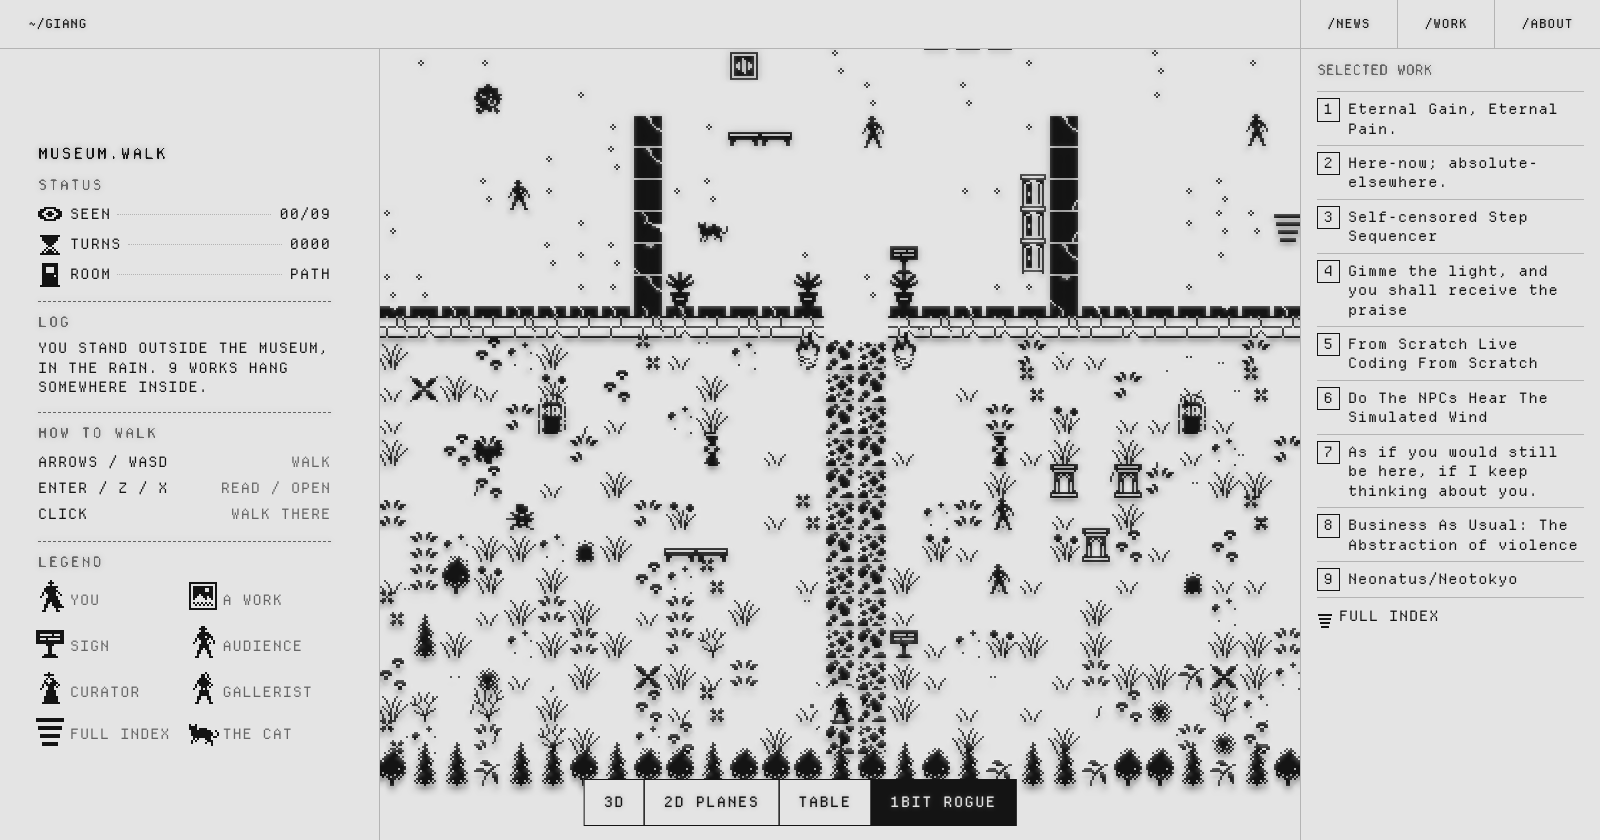
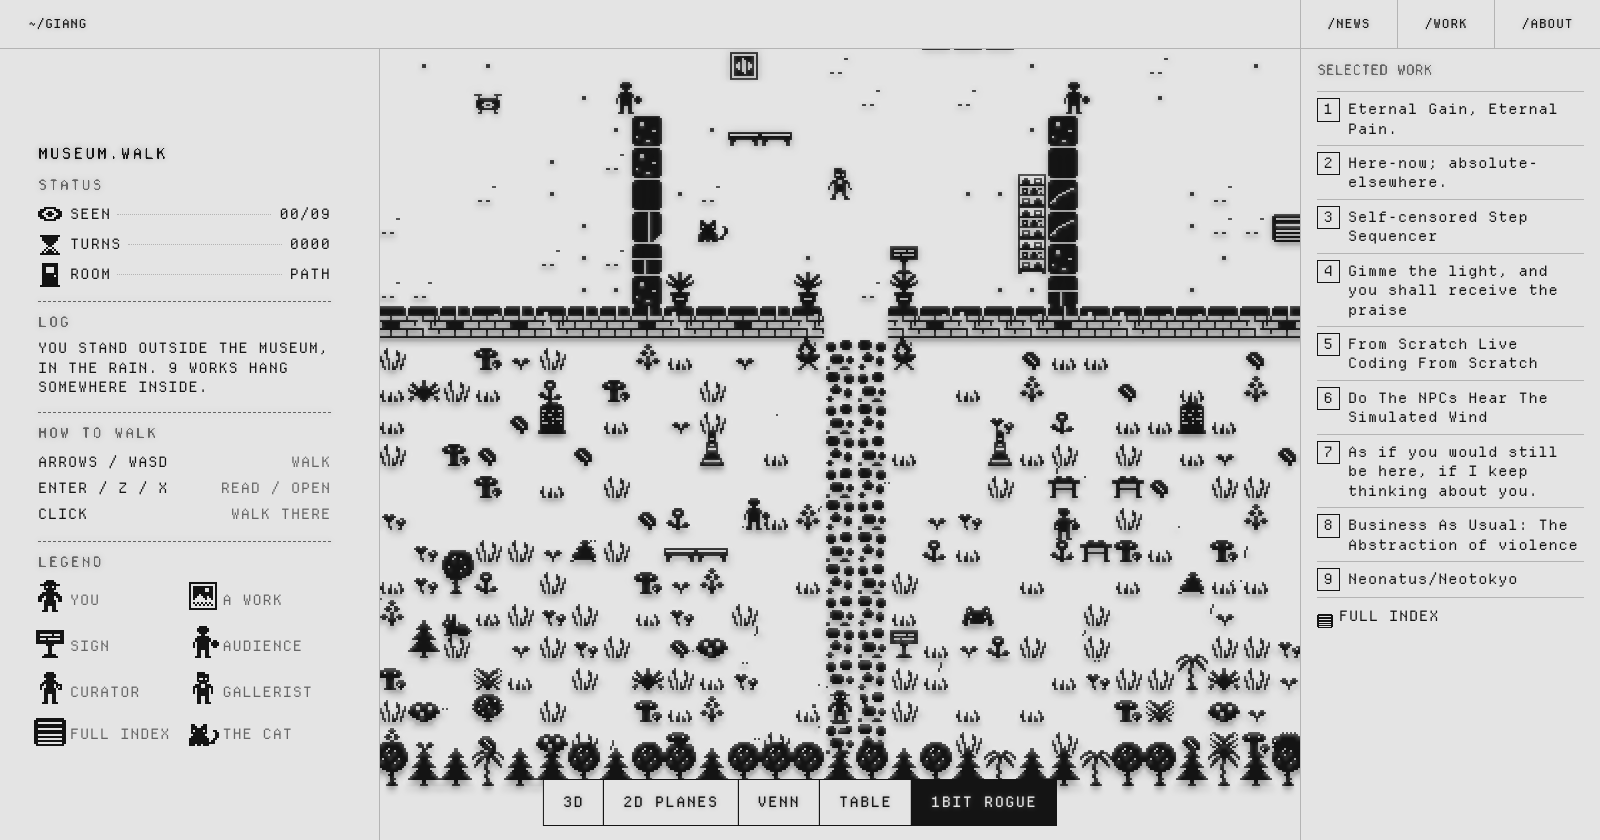
update

diff --git a/src/game/rogueWorld.js b/src/game/rogueWorld.js
@@ -535,9 +535,8 @@ export const WORLD = {
     "....##....##....",
     "...###....###...",
   ],
-  // hair up, a long dress, a clipboard
+  // short hair, a shirt and trousers, a clipboard
   "curator-a": [
-    ".......##.......",
     "......####......",
     ".....######.....",
     ".....######.....",
@@ -548,14 +547,14 @@ export const WORLD = {
     "...#..####.#.#..",
     "...#.######.##..",
     ".....######.....",
-    "....########....",
-    "....########....",
-    "...##########...",
-    "...##########...",
-    "..############..",
+    ".....######.....",
+    ".....##..##.....",
+    ".....##..##.....",
+    ".....##..##.....",
+    ".....##..##.....",
+    "....###..###....",
   ],
   "curator-b": [
-    ".......##.......",
     "......####......",
     ".....######.....",
     ".....######.....",
@@ -566,11 +565,12 @@ export const WORLD = {
     "..##..####.#.#..",
     "..#..######.##..",
     ".....######.....",
-    "....########....",
-    "...#########....",
-    "...##########...",
-    "..###########...",
-    "..############..",
+    ".....######.....",
+    ".....##..##.....",
+    ".....##..##.....",
+    "....##....##....",
+    "....##....##....",
+    "...###....###...",
   ],
   // a quiff, glasses, a suit and tie
   "gallerist-a": [
